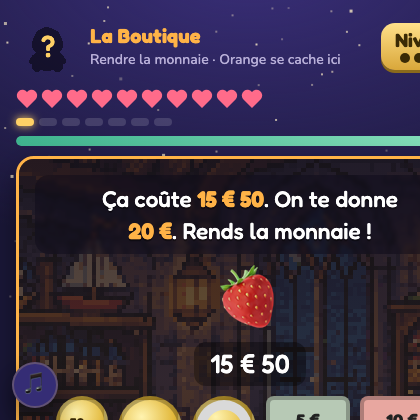
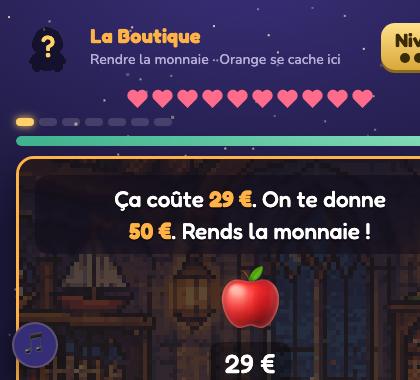
En-tête de salle en grille

diff --git a/chateau-doudous.html b/chateau-doudous.html
@@ -126,13 +126,13 @@ details.parents summary{cursor:pointer; font-weight:800; color:var(--muted)}
 
 /* ---------- Salle (mini-jeu) ---------- */
 .room{--acc:var(--gold); --room-bg:#2a2560}
-.roomhead{display:flex; align-items:center; gap:10px; flex-wrap:wrap; margin-bottom:8px}
+.roomhead{display:grid; grid-template-columns:64px minmax(0,1fr) auto auto; align-items:center; gap:10px; margin-bottom:8px}
+@media (max-width:640px){.roomhead{grid-template-columns:64px minmax(0,1fr) auto} .roomhead .hearts{grid-column:1 / -1; justify-content:center}}
 .roomhead .hide{position:relative; width:64px; height:64px; flex:none}
 .roomhead .hide img{width:64px; height:64px; object-fit:contain; filter:brightness(0) opacity(.5); transition:filter .8s}
 .roomhead .hide::after{content:"?"; position:absolute; inset:0; display:flex; align-items:center; justify-content:center; font-family:var(--font-display); font-size:30px; color:var(--gold); pointer-events:none}
 .roomhead .hide.free img{filter:none} .roomhead .hide.free::after{display:none}
-.roomhead .meta{min-width:150px; flex:1 1 180px}
-@media (max-width:600px){.roomhead .hearts{order:3; width:100%} .roomhead .meta p{white-space:normal}}
+.roomhead .meta{min-width:0}
 .roomhead .meta h2{font-size:20px; color:var(--acc)}
 .roomhead .meta p{margin:0; color:var(--muted); font-size:14px}
 .lvlbadge{display:flex; flex-direction:column; align-items:center; gap:4px; background:linear-gradient(180deg,#ffe08a,var(--gold2)); color:#3a2a05; border-radius:14px; padding:7px 14px; box-shadow:0 3px 0 #8a6a1c; flex:none}

diff --git a/index.html b/index.html
@@ -125,13 +125,13 @@ details.parents summary{cursor:pointer; font-weight:800; color:var(--muted)}
 
 /* ---------- Salle (mini-jeu) ---------- */
 .room{--acc:var(--gold); --room-bg:#2a2560}
-.roomhead{display:flex; align-items:center; gap:10px; flex-wrap:wrap; margin-bottom:8px}
+.roomhead{display:grid; grid-template-columns:64px minmax(0,1fr) auto auto; align-items:center; gap:10px; margin-bottom:8px}
+@media (max-width:640px){.roomhead{grid-template-columns:64px minmax(0,1fr) auto} .roomhead .hearts{grid-column:1 / -1; justify-content:center}}
 .roomhead .hide{position:relative; width:64px; height:64px; flex:none}
 .roomhead .hide img{width:64px; height:64px; object-fit:contain; filter:brightness(0) opacity(.5); transition:filter .8s}
 .roomhead .hide::after{content:"?"; position:absolute; inset:0; display:flex; align-items:center; justify-content:center; font-family:var(--font-display); font-size:30px; color:var(--gold); pointer-events:none}
 .roomhead .hide.free img{filter:none} .roomhead .hide.free::after{display:none}
-.roomhead .meta{min-width:150px; flex:1 1 180px}
-@media (max-width:600px){.roomhead .hearts{order:3; width:100%} .roomhead .meta p{white-space:normal}}
+.roomhead .meta{min-width:0}
 .roomhead .meta h2{font-size:20px; color:var(--acc)}
 .roomhead .meta p{margin:0; color:var(--muted); font-size:14px}
 .lvlbadge{display:flex; flex-direction:column; align-items:center; gap:4px; background:linear-gradient(180deg,#ffe08a,var(--gold2)); color:#3a2a05; border-radius:14px; padding:7px 14px; box-shadow:0 3px 0 #8a6a1c; flex:none}

diff --git a/shot-lvl.html b/shot-lvl.html
@@ -125,13 +125,13 @@ details.parents summary{cursor:pointer; font-weight:800; color:var(--muted)}
 
 /* ---------- Salle (mini-jeu) ---------- */
 .room{--acc:var(--gold); --room-bg:#2a2560}
-.roomhead{display:flex; align-items:center; gap:10px; flex-wrap:wrap; margin-bottom:8px}
+.roomhead{display:grid; grid-template-columns:64px minmax(0,1fr) auto auto; align-items:center; gap:10px; margin-bottom:8px}
+@media (max-width:640px){.roomhead{grid-template-columns:64px minmax(0,1fr) auto} .roomhead .hearts{grid-column:1 / -1; justify-content:center}}
 .roomhead .hide{position:relative; width:64px; height:64px; flex:none}
 .roomhead .hide img{width:64px; height:64px; object-fit:contain; filter:brightness(0) opacity(.5); transition:filter .8s}
 .roomhead .hide::after{content:"?"; position:absolute; inset:0; display:flex; align-items:center; justify-content:center; font-family:var(--font-display); font-size:30px; color:var(--gold); pointer-events:none}
 .roomhead .hide.free img{filter:none} .roomhead .hide.free::after{display:none}
-.roomhead .meta{min-width:150px; flex:1 1 180px}
-@media (max-width:600px){.roomhead .hearts{order:3; width:100%} .roomhead .meta p{white-space:normal}}
+.roomhead .meta{min-width:0}
 .roomhead .meta h2{font-size:20px; color:var(--acc)}
 .roomhead .meta p{margin:0; color:var(--muted); font-size:14px}
 .lvlbadge{display:flex; flex-direction:column; align-items:center; gap:4px; background:linear-gradient(180deg,#ffe08a,var(--gold2)); color:#3a2a05; border-radius:14px; padding:7px 14px; box-shadow:0 3px 0 #8a6a1c; flex:none}

diff --git a/src/part-1-style.html b/src/part-1-style.html
@@ -126,13 +126,13 @@ details.parents summary{cursor:pointer; font-weight:800; color:var(--muted)}
 
 /* ---------- Salle (mini-jeu) ---------- */
 .room{--acc:var(--gold); --room-bg:#2a2560}
-.roomhead{display:flex; align-items:center; gap:10px; flex-wrap:wrap; margin-bottom:8px}
+.roomhead{display:grid; grid-template-columns:64px minmax(0,1fr) auto auto; align-items:center; gap:10px; margin-bottom:8px}
+@media (max-width:640px){.roomhead{grid-template-columns:64px minmax(0,1fr) auto} .roomhead .hearts{grid-column:1 / -1; justify-content:center}}
 .roomhead .hide{position:relative; width:64px; height:64px; flex:none}
 .roomhead .hide img{width:64px; height:64px; object-fit:contain; filter:brightness(0) opacity(.5); transition:filter .8s}
 .roomhead .hide::after{content:"?"; position:absolute; inset:0; display:flex; align-items:center; justify-content:center; font-family:var(--font-display); font-size:30px; color:var(--gold); pointer-events:none}
 .roomhead .hide.free img{filter:none} .roomhead .hide.free::after{display:none}
-.roomhead .meta{min-width:150px; flex:1 1 180px}
-@media (max-width:600px){.roomhead .hearts{order:3; width:100%} .roomhead .meta p{white-space:normal}}
+.roomhead .meta{min-width:0}
 .roomhead .meta h2{font-size:20px; color:var(--acc)}
 .roomhead .meta p{margin:0; color:var(--muted); font-size:14px}
 .lvlbadge{display:flex; flex-direction:column; align-items:center; gap:4px; background:linear-gradient(180deg,#ffe08a,var(--gold2)); color:#3a2a05; border-radius:14px; padding:7px 14px; box-shadow:0 3px 0 #8a6a1c; flex:none}
